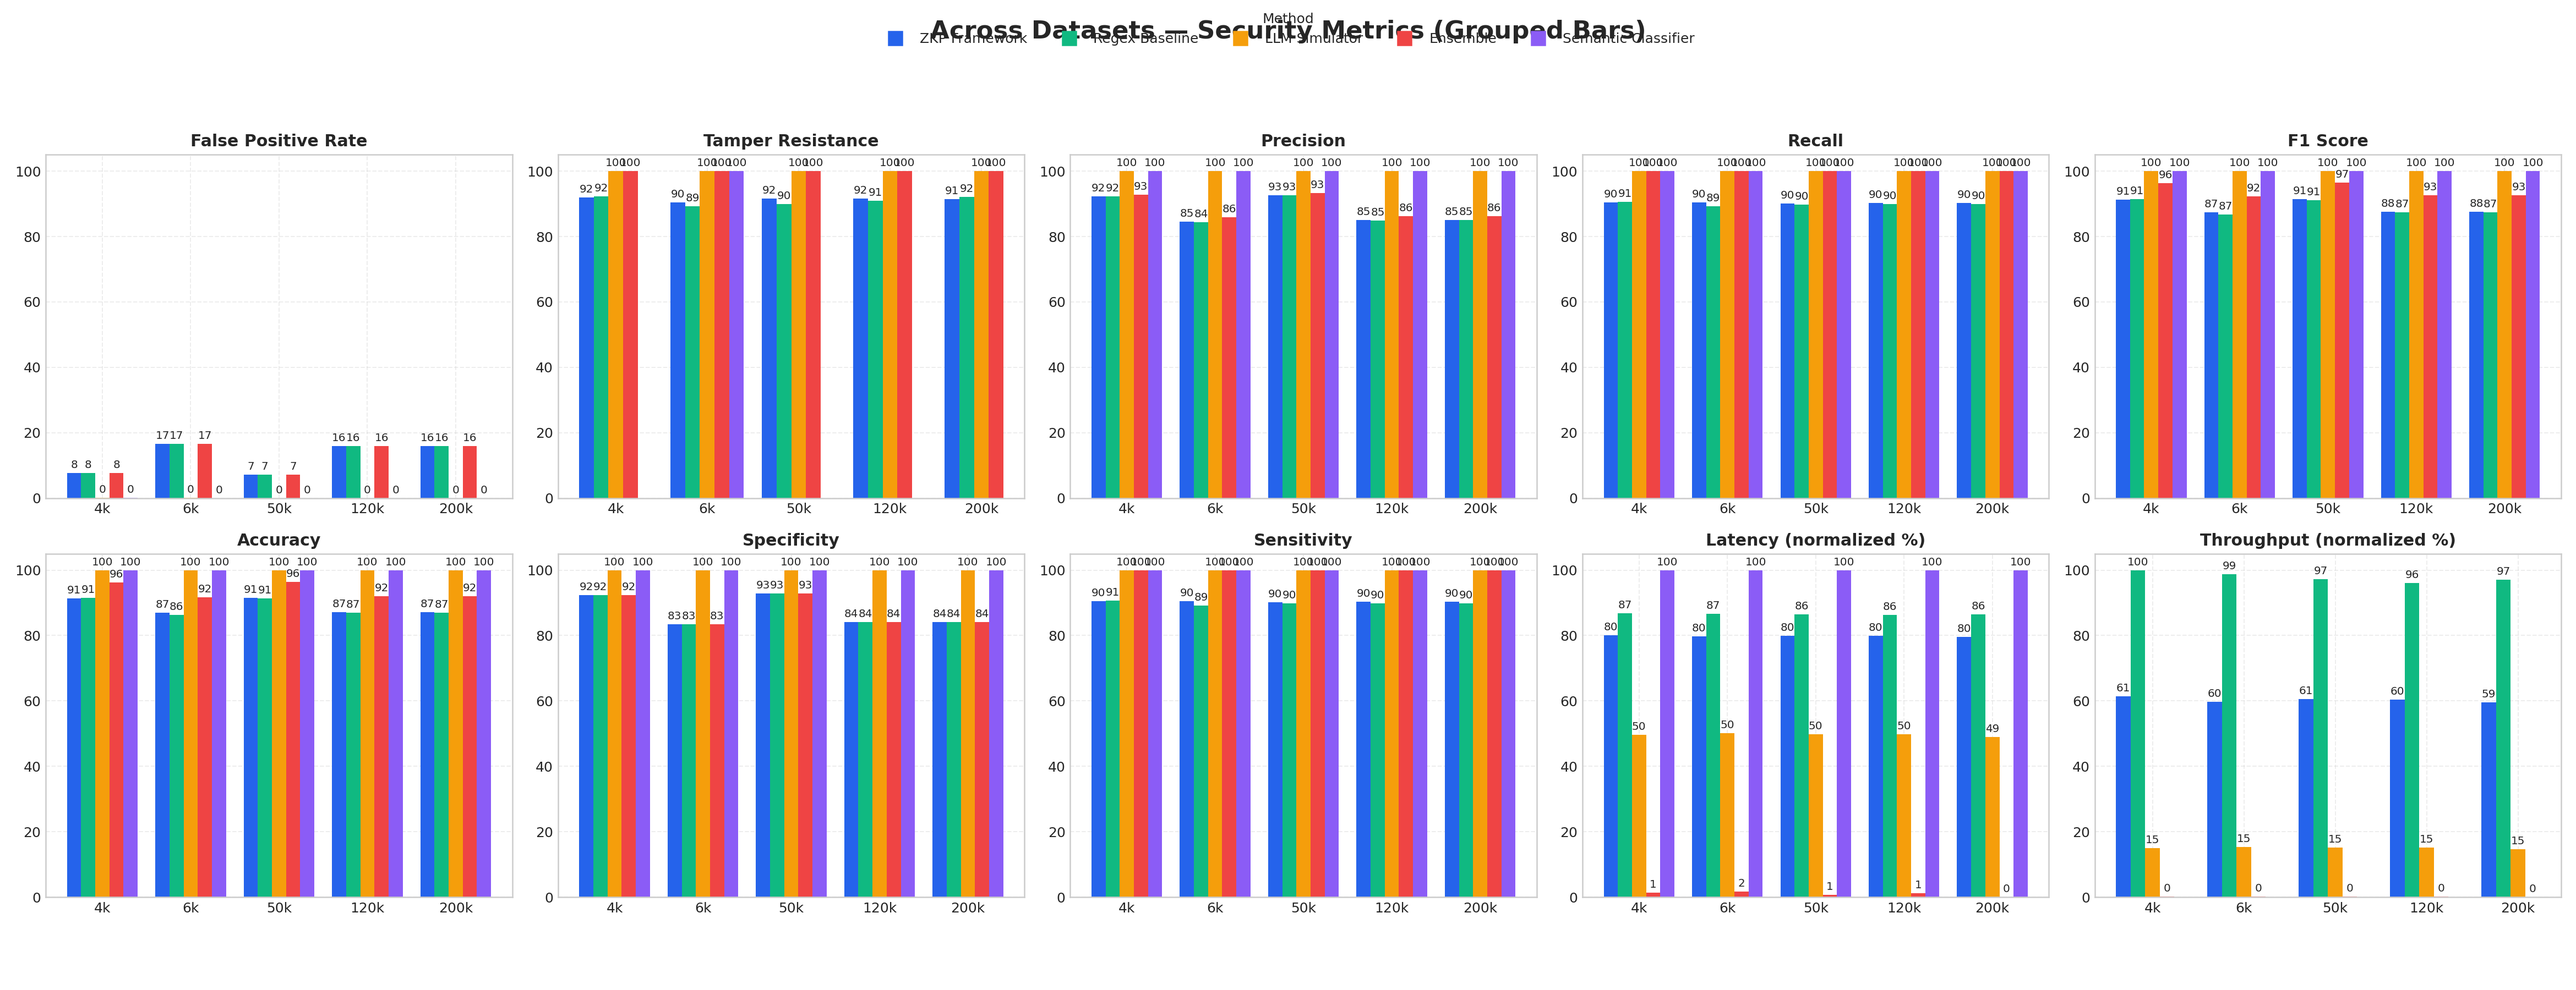
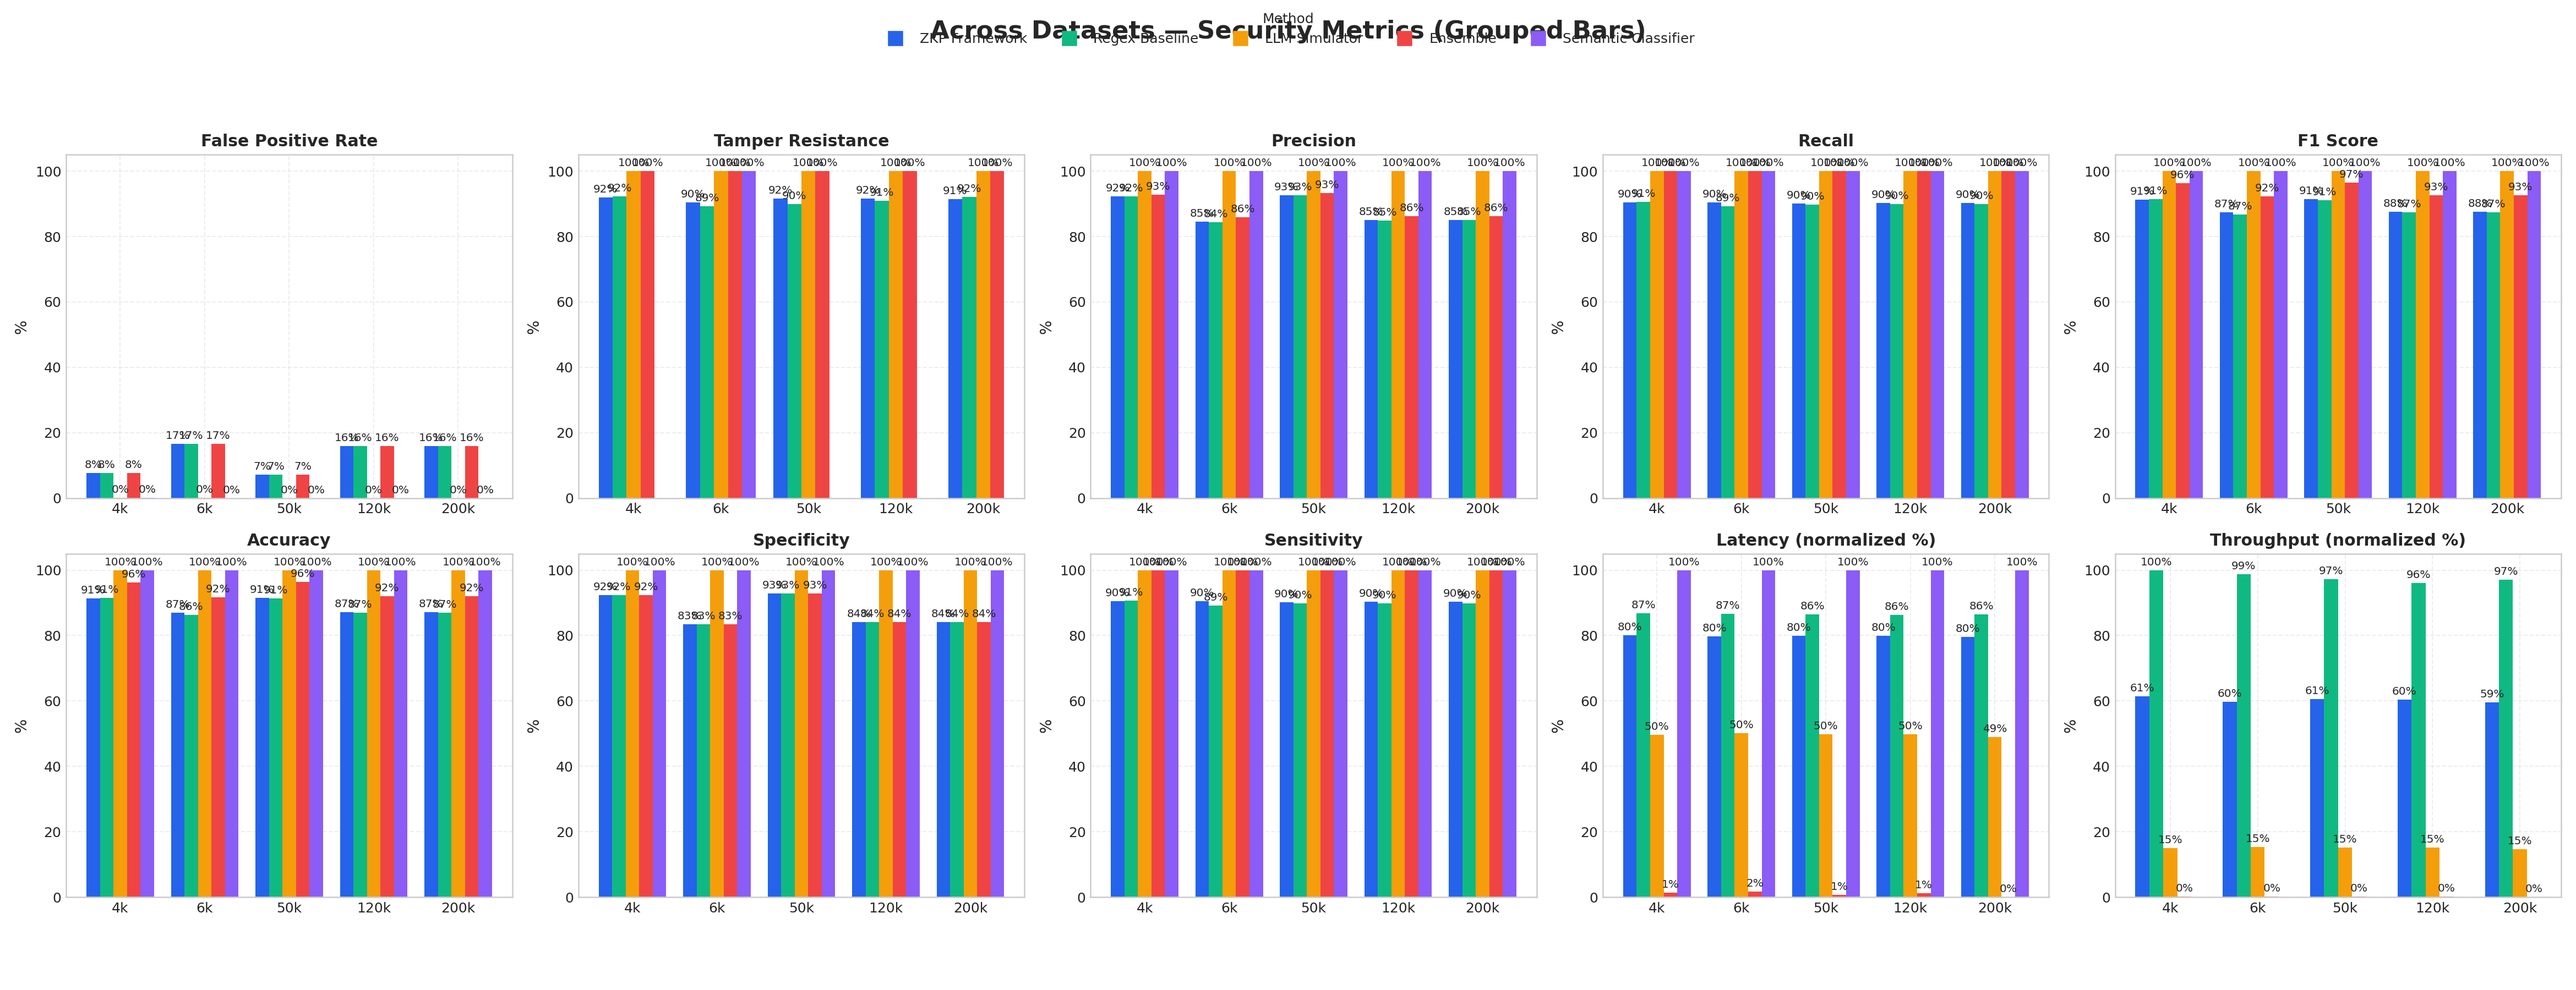
All-in-one: label latency/throughput as % with y-axis symbol

diff --git a/tools/aggregate_across_datasets.py b/tools/aggregate_across_datasets.py
@@ -325,9 +325,17 @@ def main(out_dir: str = "results_cross_dataset") -> None:
             ax.set_xticklabels(x_labels)
             ax.set_ylim(0, 105)
             ax.grid(True, linestyle='--', alpha=0.35)
-            # value labels
+            # y-axis and value labels with % for percentage/normalized metrics
+            if is_pct or mk.endswith('_norm_pct'):
+                ax.set_ylabel('%')
+                fmt = '%.0f%%'
+            else:
+                fmt = '%.0f'
             for container in ax.containers:
-                ax.bar_label(container, fmt='%.0f', padding=2, fontsize=8)
+                try:
+                    ax.bar_label(container, fmt=fmt, padding=2, fontsize=8)
+                except Exception:
+                    pass
         # Shared legend
         handles = [plt.Line2D([0], [0], marker='s', color=method_colors[m], markersize=10, linewidth=0) for m in present_methods]
         fig.legend(handles, present_methods, title='Method', loc='upper center', ncol=min(6, len(present_methods)))
